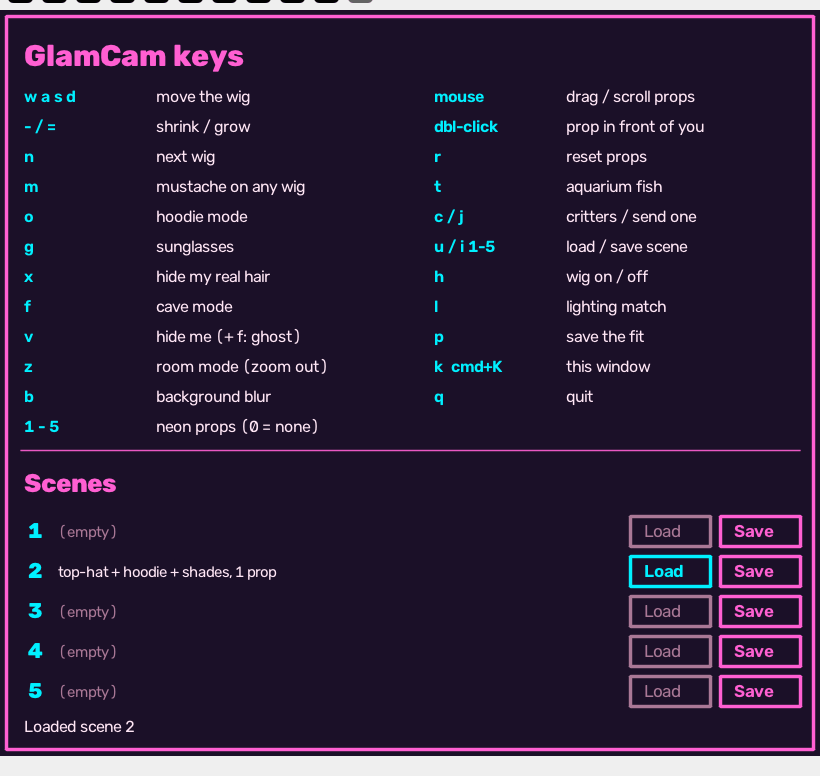
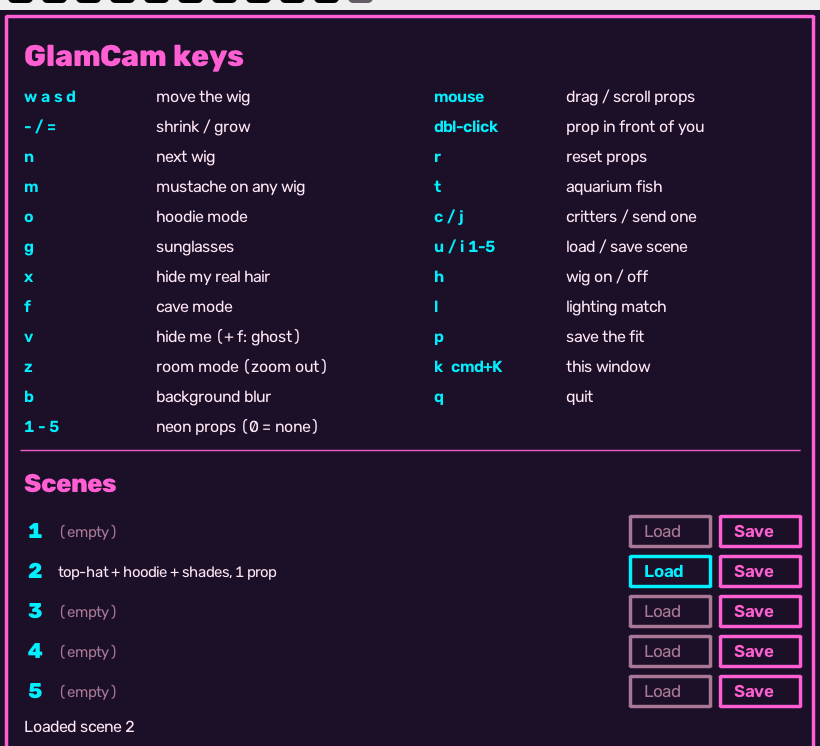
README: quick start and a gallery up top, sections reordered
- New "Quick start" (download, OBS, go) right under the banner
- New "The Show" gallery: Cave Mode, Neon Props, Aquarium, Hoodie &
  Shades, Critters, Scenes, each linking to its section
- Order: intro, features, controls, the feature sections, then the full
  install guide and reference material at the bottom
- Tighter crop on the keys-window screenshot

Claude-Session: https://claude.ai/code/session_0142athTo3ABiBqVr5GGnaGY

diff --git a/README.md b/README.md
@@ -17,7 +17,24 @@
 
 ---
 
-## What is this?
+## ⚡ Quick start
+
+1. **Download** GlamCam for your computer from [**Releases**](https://github.com/jdonohoo/glamcam/releases/latest) (Mac with Apple Silicon, or Windows) and open it. Allow the camera (and the mic, for the [talking Cave Mode mouth](#-cave-mode)).
+2. **One time:** install [OBS](https://obsproject.com) and turn on its virtual camera ([how](#step-1--set-up-obs-one-time)).
+3. **In OBS:** add a Window Capture of the **GlamCam** window, click **Start Virtual Camera**, then pick **OBS Virtual Camera** in Meet ([step by step](#route-a-through-obs-recommended)).
+4. **Get glam:** press **`n`** for the next wig and **`k`** for every key. You'll figure out the rest. It's mostly hats.
+
+Rather run from source? `git clone https://github.com/jdonohoo/glamcam.git && cd glamcam && ./run.sh` ([full guide](#-getting-started)).
+
+## 🎬 The Show
+
+<table>
+<tr><td width="50%" valign="top"><a href="#-cave-mode"><img src="assets/cave.png" alt="🦇 Cave Mode"></a><br><b><a href="#-cave-mode">🦇 Cave Mode</a></b><br><sub>Freeze the costume, kill the lights. Glowing eyes, a neon mouth that talks, and ghost mode.</sub></td><td width="50%" valign="top"><a href="#-neon-props"><img src="assets/props.png" alt="🪩 Neon Props"></a><br><b><a href="#-neon-props">🪩 Neon Props</a></b><br><sub>Onboard sign, disco ball, floating keyboard, sucks to suck. Drag them anywhere.</sub></td></tr>
+<tr><td width="50%" valign="top"><a href="#-the-aquarium"><img src="assets/aquarium.png" alt="🐠 The Aquarium"></a><br><b><a href="#-the-aquarium">🐠 The Aquarium</a></b><br><sub>Discus, angelfish, stingrays, mantas, clownfish, lionfish. Freshwater, reef, or Party Mode.</sub></td><td width="50%" valign="top"><a href="#-hoodie--shades"><img src="assets/wardrobe.png" alt="🥷 Hoodie & Shades"></a><br><b><a href="#-hoodie--shades">🥷 Hoodie & Shades</a></b><br><sub>The Onboard Hoodie and sunglasses, layered over any wig.</sub></td></tr>
+<tr><td width="50%" valign="top"><a href="#-critters"><img src="assets/critters.png" alt="🐶 Critters"></a><br><b><a href="#-critters">🐶 Critters</a></b><br><sub>Neon puppies and kittens sprint across your screen. Cuteness: lethal.</sub></td><td width="50%" valign="top"><a href="#-scenes"><img src="assets/panel.png" alt="💾 Scenes"></a><br><b><a href="#-scenes">💾 Scenes</a></b><br><sub>Save 5 complete looks and switch with one click, off camera.</sub></td></tr>
+</table>
+
+## 😎 What is this?
 
 You know that one coworker with *the hair*? Flowing. Luminous. Shampoo-commercial-in-slow-motion hair?
 
@@ -27,6 +44,8 @@ It finds your face 30 times a second, glues a wig to your forehead (it follows y
 
 Ships with **Glaaron**, the hair that started it all, a **neon magician's top hat** (with rabbit), **two sweet, sweet mustaches**, **The Ultimate Glaaron** (hair + hat + mustache), **Jeff Mode** (Jeff Ears, classic and neon), **sunglasses**, a **hoodie** with a neon Onboard logo, and four neon wigs nobody asked for. Or [make your own](#-make-your-own-wig) from any photo.
 
+Then it got out of hand: [Cave Mode](#-cave-mode) with glowing eyes and a mouth that talks, [neon props](#-neon-props) you can drag around the wall, a [full aquarium](#-the-aquarium), [puppies and kittens](#-critters) running across your screen, and [scenes](#-scenes) to save it all. So many juicy features.
+
 | | |
 |---|---|
 | **Glossiness** | Very |
@@ -34,16 +53,69 @@ Ships with **Glaaron**, the hair that started it all, a **neon magician's top ha
 | **HR approved** | Pending |
 | **Real hair harmed** | 0 |
 
-## How it works
+## ✨ Features
 
-<p align="center"><img src="assets/how.png" alt="Webcam → 478 face dots → wig glued on → background blurred → OBS Virtual Camera → Meet/Zoom/Teams"></p>
+Every feature is one key away. Click the GlamCam window and go.
 
-1. **MediaPipe** puts 478 dots on your face. GlamCam only listens to the forehead, brows, eyes and temples, so the wig doesn't flap when you talk.
-2. The wig gets moved, scaled and rotated to match those dots, every frame.
-3. A second model figures out which pixels are *you* and blurs everything else.
-4. The result goes out through the **OBS Virtual Camera**, which every video app already knows how to use, either straight from GlamCam or via an OBS scene.
+| Feature | Key | Stats |
+|---|---|---|
+| 🎩 **Face-tracking costumes**: wigs, hats, mustaches and ears that follow you as you lean, tilt and nod | `n` | Accuracy: **Uncanny** · Looks: **15 and counting** |
+| 🥸 **Mustache mix & match**: put a mustache on *any* wig | `m` | Combinations: **Irresponsible** |
+| 🥷 **[Hoodie mode](#-hoodie--shades)**: a black hoodie with a neon Onboard logo, under *any* wig | `o` | Hair: **Hooded** |
+| 😎 **[Sunglasses](#-hoodie--shades)**: shades or neon shades, over *any* wig | `g` | Cool: **Extremely** |
+| 🫥 **Hair hider (Mike Mode)**: paints your real hair out so it can't sneak out from under the wig | `x` | Hair: **Hidden** · Shame: **Also hidden** |
+| 🦇 **[Cave Mode](#-cave-mode)**: freeze the costume, kill the lights, lurk with glowing neon-blue eyes and a neon mouth that talks | `f` | Lights: **Optional** · Mouth: **Running** |
+| 🪩 **[Neon props](#-neon-props)**: an Onboard sign, a disco ball, a floating neon keyboard and a "sucks to suck" window, hung on the wall *behind* you | `1`–`4` | Wall: **Decorated** |
+| 🐠 **[The Aquarium](#-the-aquarium)**: a big neon tank of swimming fish behind you. Pick who lives in it | `5`, then `t` | Fish: **Plenty** |
+| 🐶 **[Critters](#-critters)**: neon puppies and kittens sprint across the bottom of your screen at random | `c` / `j` | Cuteness: **Lethal** |
+| 💾 **[Scenes](#-scenes)**: save up to 5 complete looks and switch between them in one click | `u` / `i` + `1`–`5` | Outfit changes: **Instant** |
+| 🫥 **Hide me**: removes *you*, blacks out the room, and leaves just your props. In Cave Mode it's 👻 **ghost mode**: your frozen avatar stays, the camera never shows | `v` | You: **Gone** · Avatar: **Staying** |
+| 🔭 **Room mode**: zooms the camera out so there's more wall for props | `z` | Wall space: **More** |
+| 📺 **1080p** out of the box, even if your webcam is 720p | | Pixels: **All of them** |
+| 🌫 **Background blur**: your laundry pile, gone | `b` | Laundry: **Gone** |
+| 💡 **Lighting match**: dim a wig to match your room | `l` | Default: **Off, because funnier** |
+| 🧪 **[Make your own wig](#-make-your-own-wig)**: any photo, any hair | `--make-wig` | Kevins: **Unlimited** |
+| ⌨ **Floating keys window**: every shortcut plus the scene loader, never on camera | `k` / `⌘K` | On camera: **Never** |
+| 📺 **Works with** Google Meet, Zoom, Teams and OBS, via the OBS Virtual Camera | | Compatibility: **Suspiciously good** |
 
-## The Wig Closet
+## 🎮 Controls
+
+<p align="center"><img src="assets/keys.png" alt="Controls: WASD move, - = size, N next wig, M mustache, X hide hair (Mike Mode), F Cave Mode, B blur, H wig on/off, L lighting, P save, K or Cmd+K keys window, 1-5 props, mouse drag/scroll/double-click props, T aquarium fish, O hoodie, G sunglasses, V hide me, Z room mode, U/I scenes, C/J critters"></p>
+
+Click the **GlamCam** window first, then:
+
+| Key | Does |
+|---|---|
+| `w` `a` `s` `d` | Nudge the wig up / left / down / right |
+| `-` `=` | Shrink / grow the wig |
+| `n` | Next wig |
+| `m` | Mustache on **any** wig: cycles none → The Mustache → Neon Mustache. Disco Inferno with a neon handlebar? Yes. |
+| `o` | 🥷 [Hoodie mode](#-hoodie--shades): hoodie on / off, under any wig |
+| `g` | 😎 [Sunglasses](#-hoodie--shades): cycles none → Shades → Neon Shades, over any wig |
+| `1` `2` `3` `4` | 🪩 [Neon props](#-neon-props) on the wall behind you: Onboard sign, disco ball, floating neon keyboard, sucks to suck. `0` clears them |
+| `5` | 🐠 [The Aquarium](#-the-aquarium) on / off |
+| `v` | 🫥 Hide me: just the props, on black. In Cave Mode: 👻 ghost mode (props + your frozen avatar, never the camera) |
+| `z` | 🔭 Room mode: zoom out for more wall (1× → 1.25× → 1.5×) |
+| 🖱 drag / scroll / double-click | Move, resize, or bring a prop in front of you ([details](#-neon-props)) |
+| `[` `]` | Shrink / grow the last prop you grabbed |
+| `r` | Reset every prop to its default spot and size |
+| `t` | 🐠 Who's in the aquarium: each fish on its own, Freshwater Community, Saltwater Community, or Party Mode (everyone) |
+| `x` | 🫥 Hide your real hair (**Mike Mode**): paints it out so it can't peek out from under the wig |
+| `f` | 🦇 **[Cave Mode](#-cave-mode)**: freeze the costume in place, turn your lights off, lurk with glowing blue eyes and a talking neon mouth. Drag the costume to move it. `f` again to resume tracking |
+| `h` | Wig off / on (for when your skip-level joins) |
+| `b` | Background blur off / on |
+| `l` | Lighting match: dim the wig to match your room (off by default, because a wig lit by its own personal sun is funnier) |
+| `p` | Save this wig's fit, so it's remembered next time |
+| `k` (or `⌘K` / `Ctrl+K`) | Open the floating **GlamCam Keys** window: all of this, plus clickable scene **Load** / **Save** buttons. It's a separate window, so it never shows up on camera |
+| `u` then `1`–`5` | 💾 Load [scene](#-scenes) 1–5 |
+| `i` then `1`–`5` | 💾 Save the current look as scene 1–5 |
+| `c` | 🐶 [Critters](#-critters) on / off |
+| `j` | 🐶 Send a critter across right now |
+| `q` / `Esc` / close the window | Quit, return to your natural, disappointing hair |
+
+---
+
+## 👗 The Wig Closet
 
 <p align="center"><img src="assets/closet.png" alt="Fifteen looks on a cartoon mascot: Glaaron, Top Hat, Glaaron Magnifique, Ultimate Glaaron, The Mustache, Neon Mustache, Jeff Ears, Neon Jeff Ears, Shades, Neon Shades, Hoodie, Disco Inferno, Synthwave Mullet, Cyber Mohawk, The Executive"></p>
 
@@ -72,33 +144,6 @@ Press **`n`** while it's running to cycle through them, in this order: from Glaa
 > 🦇 **[Cave Mode](#-cave-mode):** get your costume lined up, press `f` to freeze it, then kill the lights. Your Jeff Ears (or Glaaron) keep floating in the dark.
 
 > 🎩 **Tall hat tip:** the top hat (and the mohawk) go well above your head. If the top gets cut off, sit a little further back or press `-` to shrink it, then `p` to save.
-
----
-
-## ✨ Features
-
-Every feature is one key away. Click the GlamCam window and go.
-
-| Feature | Key | Stats |
-|---|---|---|
-| 🎩 **Face-tracking costumes**: wigs, hats, mustaches and ears that follow you as you lean, tilt and nod | `n` | Accuracy: **Uncanny** · Looks: **15 and counting** |
-| 🥸 **Mustache mix & match**: put a mustache on *any* wig | `m` | Combinations: **Irresponsible** |
-| 🥷 **[Hoodie mode](#-hoodie--shades)**: a black hoodie with a neon Onboard logo, under *any* wig | `o` | Hair: **Hooded** |
-| 😎 **[Sunglasses](#-hoodie--shades)**: shades or neon shades, over *any* wig | `g` | Cool: **Extremely** |
-| 🫥 **Hair hider (Mike Mode)**: paints your real hair out so it can't sneak out from under the wig | `x` | Hair: **Hidden** · Shame: **Also hidden** |
-| 🦇 **[Cave Mode](#-cave-mode)**: freeze the costume, kill the lights, lurk with glowing neon-blue eyes and a neon mouth that talks | `f` | Lights: **Optional** · Mouth: **Running** |
-| 🪩 **[Neon props](#-neon-props)**: an Onboard sign, a disco ball, a floating neon keyboard and a "sucks to suck" window, hung on the wall *behind* you | `1`–`4` | Wall: **Decorated** |
-| 🐠 **[The Aquarium](#-the-aquarium)**: a big neon tank of swimming fish behind you. Pick who lives in it | `5`, then `t` | Fish: **Plenty** |
-| 🐶 **[Critters](#-critters)**: neon puppies and kittens sprint across the bottom of your screen at random | `c` / `j` | Cuteness: **Lethal** |
-| 💾 **[Scenes](#-scenes)**: save up to 5 complete looks and switch between them in one click | `u` / `i` + `1`–`5` | Outfit changes: **Instant** |
-| 🫥 **Hide me**: removes *you*, blacks out the room, and leaves just your props. In Cave Mode it's 👻 **ghost mode**: your frozen avatar stays, the camera never shows | `v` | You: **Gone** · Avatar: **Staying** |
-| 🔭 **Room mode**: zooms the camera out so there's more wall for props | `z` | Wall space: **More** |
-| 📺 **1080p** out of the box, even if your webcam is 720p | | Pixels: **All of them** |
-| 🌫 **Background blur**: your laundry pile, gone | `b` | Laundry: **Gone** |
-| 💡 **Lighting match**: dim a wig to match your room | `l` | Default: **Off, because funnier** |
-| 🧪 **[Make your own wig](#-make-your-own-wig)**: any photo, any hair | `--make-wig` | Kevins: **Unlimited** |
-| ⌨ **Floating keys window**: every shortcut plus the scene loader, never on camera | `k` / `⌘K` | On camera: **Never** |
-| 📺 **Works with** Google Meet, Zoom, Teams and OBS, via the OBS Virtual Camera | | Compatibility: **Suspiciously good** |
 
 ## 🦇 Cave Mode
 
@@ -152,23 +197,6 @@ Your arrangement saves the moment you let go, and it's there next time you start
 
 Heads-up: in the mirrored preview window the Onboard sign reads backwards (and the aquarium shows on the left), just like a real room behind you in a selfie. Everyone on the call sees it the right way round. Dragging works the same either way: grab what you see.
 
-## 🥷 Hoodie & Shades
-
-<p align="center"><img src="assets/wardrobe.png" alt="Hoodie mode, Shades, Neon Shades, and The Full Send: hoodie plus top hat plus mustache plus neon shades"></p>
-
-> 🥷 **The Onboard Hoodie: Don't leave home without it.**
-
-Two layers that go with **everything**. They stack with whatever wig you're wearing (and with `m` for a mustache).
-
-| Key | Layer | Stats |
-|---|---|---|
-| `o` | **Hoodie mode**: the **Onboard Hoodie**, a black athletic hoodie with a neon **Onboard** logo on the chest. Don't leave home without it. The deep hood goes *under* your wig and covers your real hair *and* ears; the body runs off the bottom of the frame like a real hoodie | Hair: **Hooded** · Ears: **Also hooded** |
-| `g` | **Sunglasses**: cycles none → Shades → Neon Shades. They go *on top* of everything | Cool: **Extremely** · Indoors: **Yes, obviously** |
-
-Stacking order, bottom to top: **hoodie** → **wig** → **mustache** → **shades**. Hoodie + Top Hat + Mustache + Neon Shades is officially known as **The Full Send**.
-
-Hoodie mode and Mike Mode (`x`) team up nicely: the hood covers the top of your head, and Mike Mode cleans up anything sticking out of it.
-
 ## 🐠 The Aquarium
 
 <p align="center"><img src="assets/aquarium.png" alt="The Aquarium. Freshwater: Discus, Angelfish, Stingray, Pleco, Freshwater Community. Saltwater: Manta Ray, Clownfish, Lionfish, Saltwater Community, and Party Mode with every fish"></p>
@@ -197,6 +225,23 @@ For the fish lovers. Press **`5`** to put a big neon tank on the wall behind you
 **🎉 Party Mode:** every fish, freshwater and salt, all in the reef tank. Biologically questionable. Spiritually correct.
 
 Press **`t`** to cycle in this order: Discus → Angelfish → Stingray → Pleco → Freshwater Community → Manta Ray → Clownfish → Lionfish → Saltwater Community → Party Mode. If the tank is off, `t` turns it on for you. Start with a particular crew using `--aquarium` and any of `discus`, `angelfish`, `stingray`, `pleco`, `freshwater`, `manta`, `clownfish`, `lionfish`, `saltwater`, `party`.
+
+## 🥷 Hoodie & Shades
+
+<p align="center"><img src="assets/wardrobe.png" alt="Hoodie mode, Shades, Neon Shades, and The Full Send: hoodie plus top hat plus mustache plus neon shades"></p>
+
+> 🥷 **The Onboard Hoodie: Don't leave home without it.**
+
+Two layers that go with **everything**. They stack with whatever wig you're wearing (and with `m` for a mustache).
+
+| Key | Layer | Stats |
+|---|---|---|
+| `o` | **Hoodie mode**: the **Onboard Hoodie**, a black athletic hoodie with a neon **Onboard** logo on the chest. Don't leave home without it. The deep hood goes *under* your wig and covers your real hair *and* ears; the body runs off the bottom of the frame like a real hoodie | Hair: **Hooded** · Ears: **Also hooded** |
+| `g` | **Sunglasses**: cycles none → Shades → Neon Shades. They go *on top* of everything | Cool: **Extremely** · Indoors: **Yes, obviously** |
+
+Stacking order, bottom to top: **hoodie** → **wig** → **mustache** → **shades**. Hoodie + Top Hat + Mustache + Neon Shades is officially known as **The Full Send**.
+
+Hoodie mode and Mike Mode (`x`) team up nicely: the hood covers the top of your head, and Mike Mode cleans up anything sticking out of it.
 
 ## 🐶 Critters
 
@@ -228,6 +273,52 @@ A scene remembers **everything**: the wig, mustache, hoodie and shades, which pr
 **Start with one:** `./run.sh --scene 3`.
 
 Scenes live in `scenes.json`, next to your saved wig fits and prop positions.
+
+## 🧪 Make your own wig
+
+<p align="center"><img src="assets/diy.png" alt="Step 1: a photo of Kevin. Step 2: AI cuts out only the hair. Step 3: you, wearing Kevin's hair."></p>
+
+Any photo with a face and some hair works. GlamCam finds the face, cuts out *only* the hair, and saves it as a wig. Then press `n` until you reach it, or start with `--wig kevin`.
+
+From source, macOS:
+
+```bash
+./run.sh --make-wig ~/Pictures/kevin.jpg --name Kevin
+```
+
+From source, Windows:
+
+```powershell
+.\run.bat --make-wig C:\Users\you\Pictures\kevin.jpg --name Kevin
+```
+
+With the app, macOS:
+
+```bash
+/Applications/GlamCam.app/Contents/MacOS/GlamCam --make-wig ~/Pictures/kevin.jpg --name Kevin
+```
+
+With the app, Windows (from the folder with GlamCam.exe):
+
+```powershell
+.\GlamCam.exe --make-wig C:\Users\you\Pictures\kevin.jpg --name Kevin
+```
+
+**For the best wig:**
+
+- A real photo beats a screenshot: phone camera, sent as the original file.
+- Face the camera straight on, head level, hair clearly visible and not over the face.
+- A plain background that contrasts with the hair, soft light from the front.
+- Frame from mid-chest up so all the hair fits, with some room above the head.
+- If it sits a bit off, nudge it with `w a s d` / `- =` and press `p` to save.
+
+Wigs you make go in **`my-wigs/`** when running from source (it's **git-ignored**, so you can't accidentally publish Kevin), or the app's data folder (see [Step 2a](#step-2a--the-glamcam-app-easiest)). Only the hair is kept: the face and background are blanked out of the file entirely, not just made transparent.
+
+> 💅 **Wig etiquette:** Hair is personal. Ask before you wear someone's. Glaaron is here with Aaron's full, enthusiastic blessing. Aaron is reportedly very excited.
+
+Want to add a wig for everyone? Put `name.png` + `name.json` in `wigs/` and open a PR. The neon wigs are drawn in code in [`tools/draw_wigs.py`](tools/draw_wigs.py), if you want to make more.
+
+---
 
 ## 🚀 Getting started
 
@@ -368,88 +459,16 @@ In this route the preview window is mirrored like a selfie camera. Meet still ge
 
 **Test without Meet (macOS):** **QuickTime Player → File → New Movie Recording**, click the **⌄** next to the record button, and choose **OBS Virtual Camera**.
 
----
+## ⚙ How it works
 
-## 🎮 Controls
+<p align="center"><img src="assets/how.png" alt="Webcam → 478 face dots → wig glued on → background blurred → OBS Virtual Camera → Meet/Zoom/Teams"></p>
 
-<p align="center"><img src="assets/keys.png" alt="Controls: WASD move, - = size, N next wig, M mustache, X hide hair (Mike Mode), F Cave Mode, B blur, H wig on/off, L lighting, P save, K or Cmd+K keys window, 1-5 props, mouse drag/scroll/double-click props, T aquarium fish, O hoodie, G sunglasses, V hide me, Z room mode, U/I scenes, C/J critters"></p>
+1. **MediaPipe** puts 478 dots on your face. GlamCam only listens to the forehead, brows, eyes and temples, so the wig doesn't flap when you talk.
+2. The wig gets moved, scaled and rotated to match those dots, every frame.
+3. A second model figures out which pixels are *you* and blurs everything else.
+4. The result goes out through the **OBS Virtual Camera**, which every video app already knows how to use, either straight from GlamCam or via an OBS scene.
 
-Click the **GlamCam** window first, then:
-
-| Key | Does |
-|---|---|
-| `w` `a` `s` `d` | Nudge the wig up / left / down / right |
-| `-` `=` | Shrink / grow the wig |
-| `n` | Next wig |
-| `m` | Mustache on **any** wig: cycles none → The Mustache → Neon Mustache. Disco Inferno with a neon handlebar? Yes. |
-| `o` | 🥷 [Hoodie mode](#-hoodie--shades): hoodie on / off, under any wig |
-| `g` | 😎 [Sunglasses](#-hoodie--shades): cycles none → Shades → Neon Shades, over any wig |
-| `1` `2` `3` `4` | 🪩 [Neon props](#-neon-props) on the wall behind you: Onboard sign, disco ball, floating neon keyboard, sucks to suck. `0` clears them |
-| `5` | 🐠 [The Aquarium](#-the-aquarium) on / off |
-| `v` | 🫥 Hide me: just the props, on black. In Cave Mode: 👻 ghost mode (props + your frozen avatar, never the camera) |
-| `z` | 🔭 Room mode: zoom out for more wall (1× → 1.25× → 1.5×) |
-| 🖱 drag / scroll / double-click | Move, resize, or bring a prop in front of you ([details](#-neon-props)) |
-| `[` `]` | Shrink / grow the last prop you grabbed |
-| `r` | Reset every prop to its default spot and size |
-| `t` | 🐠 Who's in the aquarium: each fish on its own, Freshwater Community, Saltwater Community, or Party Mode (everyone) |
-| `x` | 🫥 Hide your real hair (**Mike Mode**): paints it out so it can't peek out from under the wig |
-| `f` | 🦇 **[Cave Mode](#-cave-mode)**: freeze the costume in place, turn your lights off, lurk with glowing blue eyes and a talking neon mouth. Drag the costume to move it. `f` again to resume tracking |
-| `h` | Wig off / on (for when your skip-level joins) |
-| `b` | Background blur off / on |
-| `l` | Lighting match: dim the wig to match your room (off by default, because a wig lit by its own personal sun is funnier) |
-| `p` | Save this wig's fit, so it's remembered next time |
-| `k` (or `⌘K` / `Ctrl+K`) | Open the floating **GlamCam Keys** window: all of this, plus clickable scene **Load** / **Save** buttons. It's a separate window, so it never shows up on camera |
-| `u` then `1`–`5` | 💾 Load [scene](#-scenes) 1–5 |
-| `i` then `1`–`5` | 💾 Save the current look as scene 1–5 |
-| `c` | 🐶 [Critters](#-critters) on / off |
-| `j` | 🐶 Send a critter across right now |
-| `q` / `Esc` / close the window | Quit, return to your natural, disappointing hair |
-
-## 🧪 Make your own wig
-
-<p align="center"><img src="assets/diy.png" alt="Step 1: a photo of Kevin. Step 2: AI cuts out only the hair. Step 3: you, wearing Kevin's hair."></p>
-
-Any photo with a face and some hair works. GlamCam finds the face, cuts out *only* the hair, and saves it as a wig. Then press `n` until you reach it, or start with `--wig kevin`.
-
-From source, macOS:
-
-```bash
-./run.sh --make-wig ~/Pictures/kevin.jpg --name Kevin
-```
-
-From source, Windows:
-
-```powershell
-.\run.bat --make-wig C:\Users\you\Pictures\kevin.jpg --name Kevin
-```
-
-With the app, macOS:
-
-```bash
-/Applications/GlamCam.app/Contents/MacOS/GlamCam --make-wig ~/Pictures/kevin.jpg --name Kevin
-```
-
-With the app, Windows (from the folder with GlamCam.exe):
-
-```powershell
-.\GlamCam.exe --make-wig C:\Users\you\Pictures\kevin.jpg --name Kevin
-```
-
-**For the best wig:**
-
-- A real photo beats a screenshot: phone camera, sent as the original file.
-- Face the camera straight on, head level, hair clearly visible and not over the face.
-- A plain background that contrasts with the hair, soft light from the front.
-- Frame from mid-chest up so all the hair fits, with some room above the head.
-- If it sits a bit off, nudge it with `w a s d` / `- =` and press `p` to save.
-
-Wigs you make go in **`my-wigs/`** when running from source (it's **git-ignored**, so you can't accidentally publish Kevin), or the app's data folder (see [Step 2a](#step-2a--the-glamcam-app-easiest)). Only the hair is kept: the face and background are blanked out of the file entirely, not just made transparent.
-
-> 💅 **Wig etiquette:** Hair is personal. Ask before you wear someone's. Glaaron is here with Aaron's full, enthusiastic blessing. Aaron is reportedly very excited.
-
-Want to add a wig for everyone? Put `name.png` + `name.json` in `wigs/` and open a PR. The neon wigs are drawn in code in [`tools/draw_wigs.py`](tools/draw_wigs.py), if you want to make more.
-
-## ⚙ All the options
+## 🎛 All the options
 
 Pass these to `run.sh` / `run.bat`, or to the app's executable. Every one of them is also a key you can press while it runs.
 
